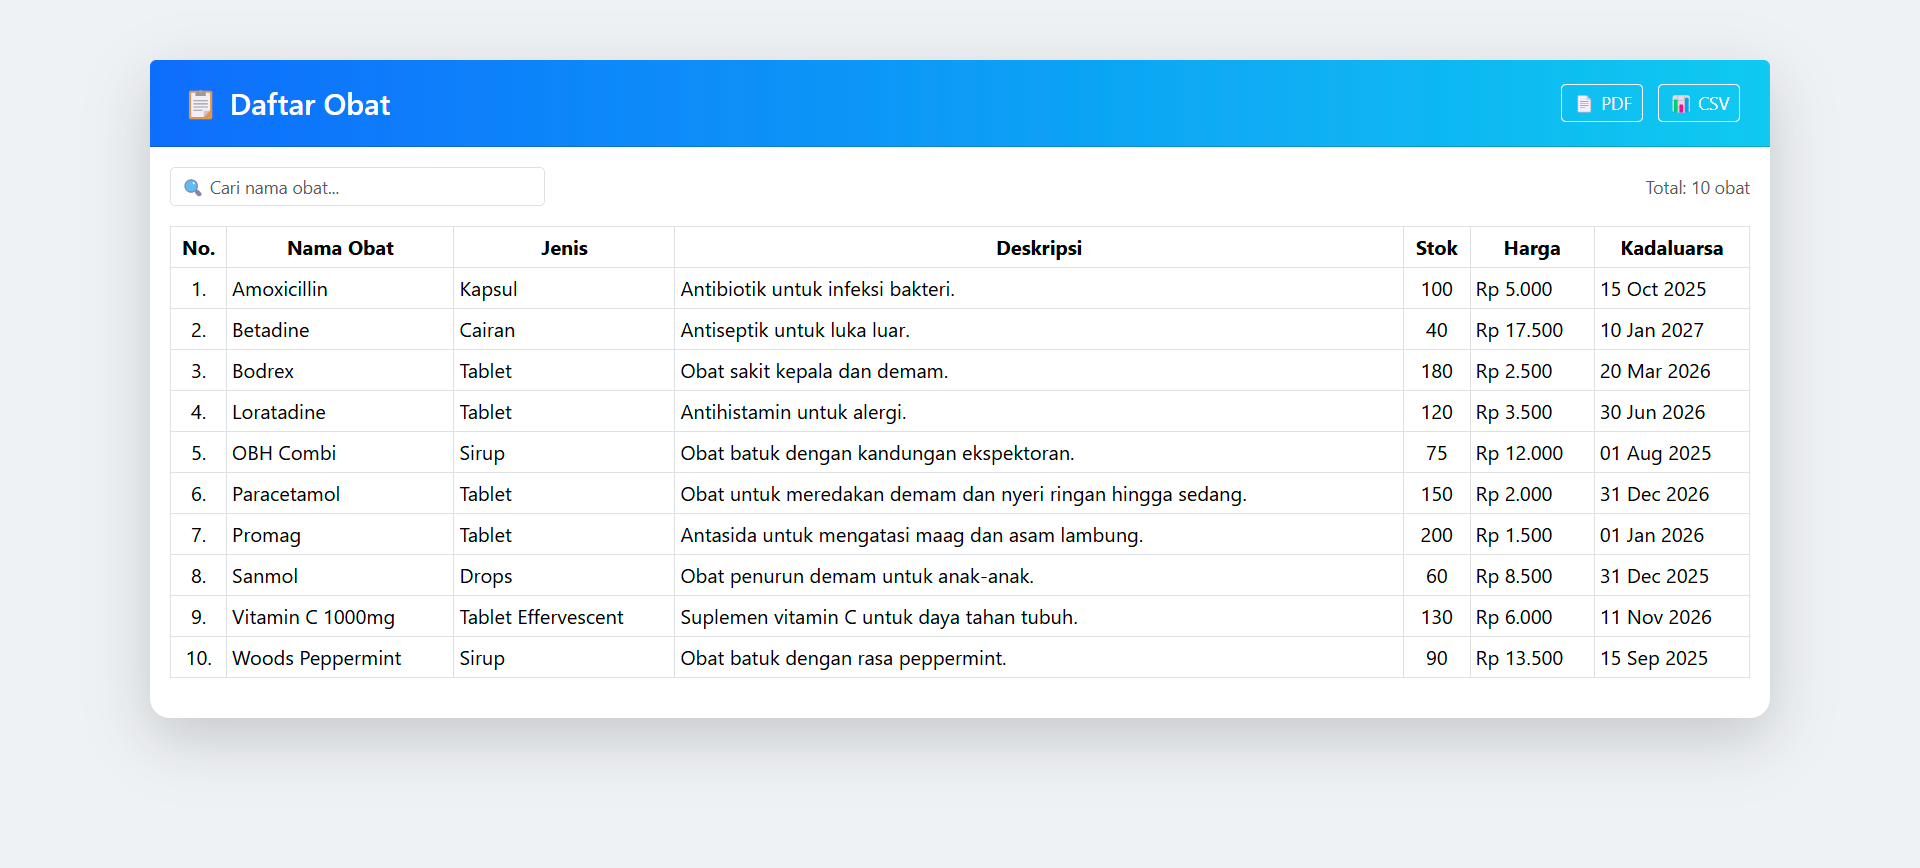
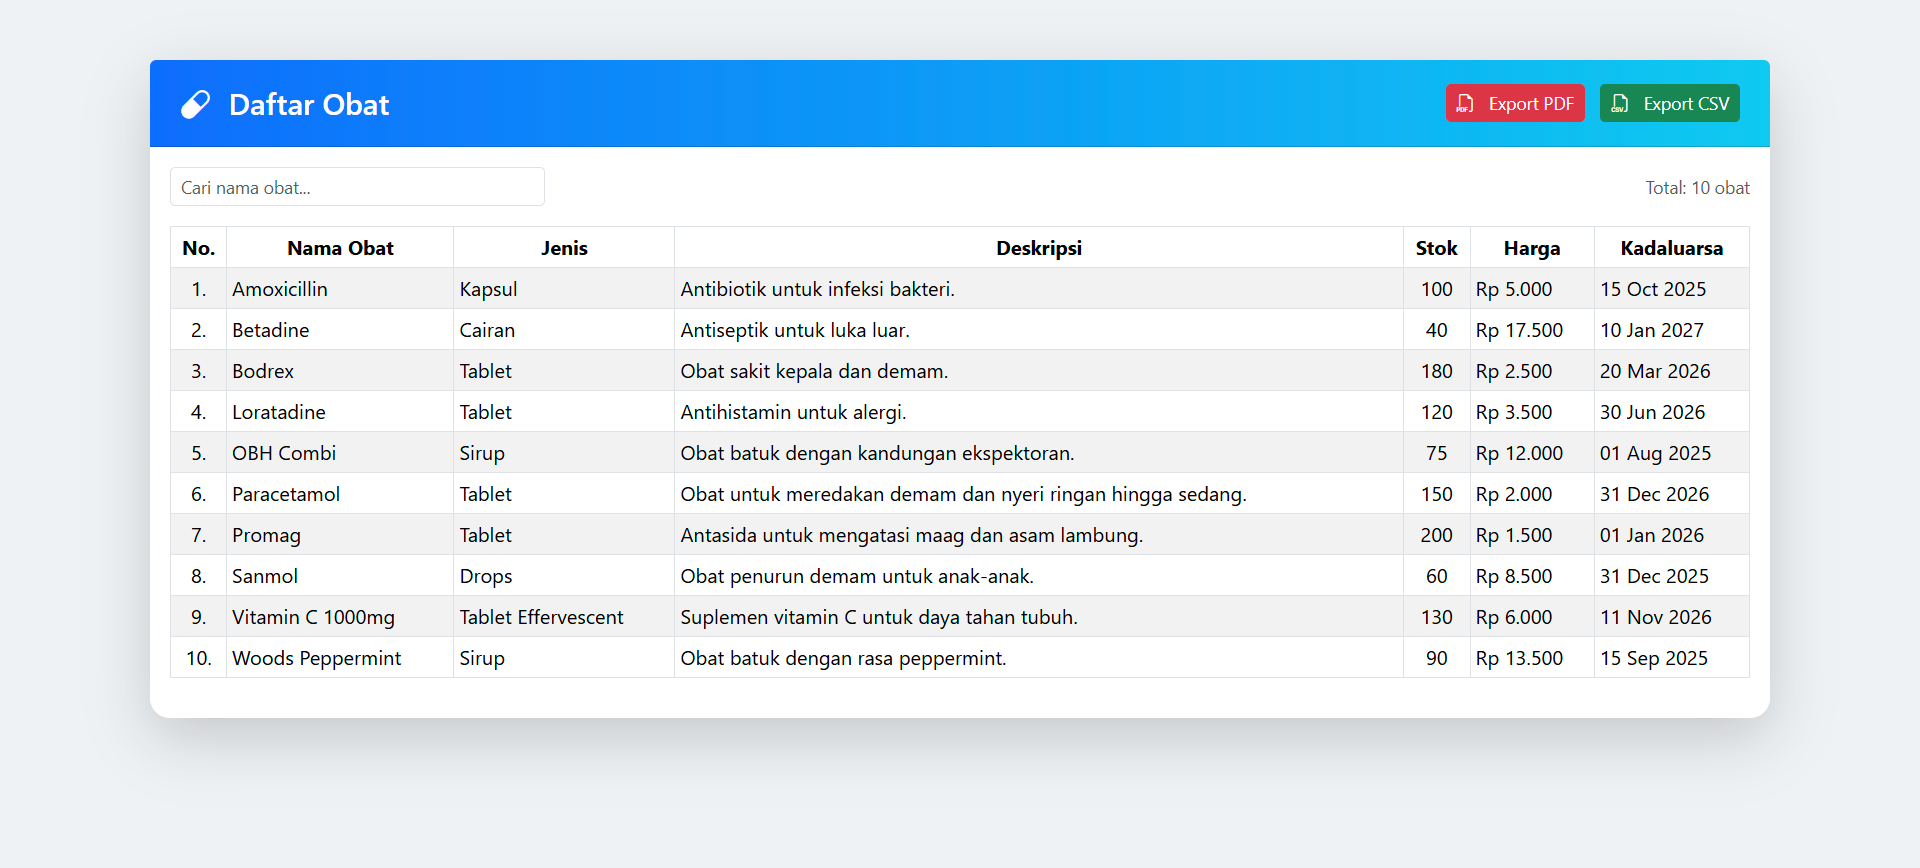
fix: update table & thumbnail image

Changed region(s): [[0.75, 0.0933, 0.9062, 0.1555], [0.0938, 0.0933, 0.1875, 0.1555], [0.0938, 0.1866, 0.1562, 0.2488]]

diff --git a/index.php b/index.php
@@ -46,7 +46,7 @@ $result = $conn->query($sql);
 
                 <?php if ($result->num_rows > 0): ?>
                     <div class="table-responsive">
-                        <table class="table table-hover table-bordered align-middle table-sm" id="medicineTable">
+                        <table class="table table-hover table-striped table-bordered align-middle table-sm" id="medicineTable">
                             <thead class="text-center">
                                 <tr>
                                     <th>No.</th>
